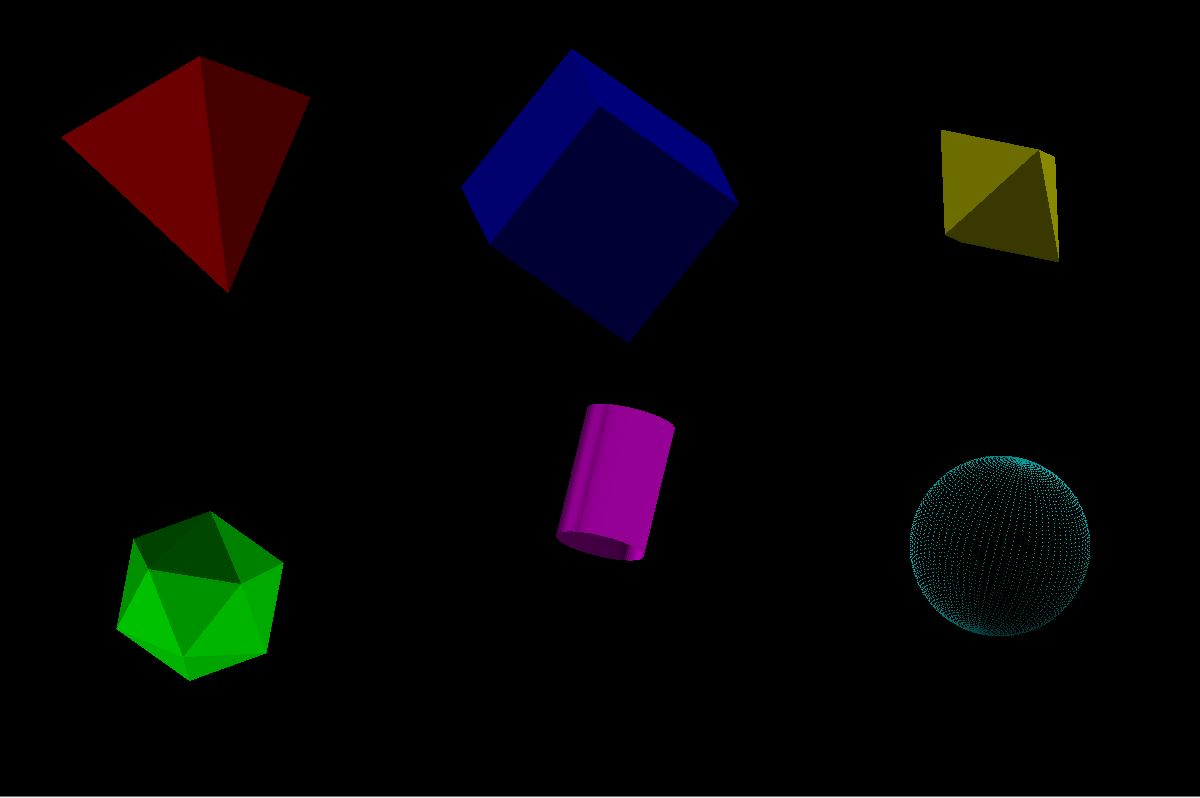
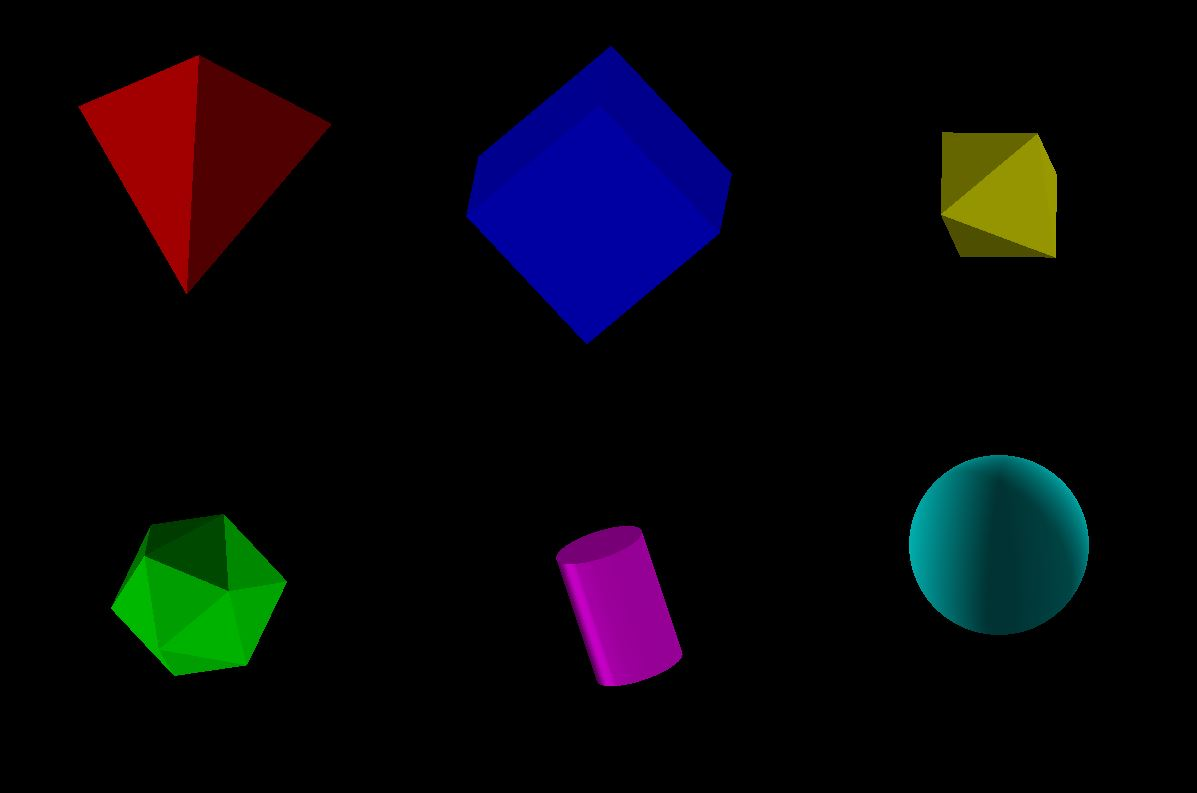
fix bugs on cylinder and sphere

diff --git a/Assignment2/src/objects3D/Sphere.java b/Assignment2/src/objects3D/Sphere.java
@@ -22,29 +22,50 @@ public class Sphere {
 		//the step of phi
 		float incphi=(pi/nSegments);
 
-		//Begin to draw
-		GL11.glBegin(GL11.GL_POINTS);
+		GL11.glBegin(GL11.GL_QUADS);
 		{
-			//this time we draw many points on the surface of a sphere to construct a sphere
-			for (float theta = -pi; theta<pi;theta=theta+inctheta ){
+			for(float theta = -pi; theta<pi;theta=theta+inctheta){
 				for(float phi = -(pi/2);phi<pi/2;phi=phi+incphi){
-					//x=r*cos(phi)*cos(theta)
-					float x= (float) (radius*Math.cos(phi)*Math.cos(theta));
-					//y=r*cos(phi)*sin(theta)
-					float y=(float) (radius*Math.cos(phi)*Math.sin(theta));
-					//z=r*sin(phi)
-					float z= (float) (radius*Math.sin(phi));
+					/*
+					* Basic Idea:
+					* 	x=r*cos(phi)*cod(theta)
+					* 	y=r*cos(phi)*sin(theta)
+					* 	z=r*sin(phi)
+					* */
 
-					//determine the shade of each point
+					//Draw the first point
+					float x= (float) (radius*Math.cos(phi)*Math.cos(theta));
+					float y=(float) (radius*Math.cos(phi)*Math.sin(theta));
+					float z= (float) (radius*Math.sin(phi));
 					GL11.glNormal3f(x,y,z);
-					//draw the point
 					GL11.glVertex3f(x,y,z);
+
+					//Draw the second point
+					float x_step_phi=(float) (radius*Math.cos(phi+incphi)*Math.cos(theta));
+					float y_step_phi=(float) (radius*Math.cos(phi+incphi)*Math.sin(theta));
+					float z_step_phi=(float) (radius*Math.sin(phi+incphi));
+					GL11.glNormal3f(x_step_phi,y_step_phi,z_step_phi);
+					GL11.glVertex3f(x_step_phi,y_step_phi,z_step_phi);
+
+					//Draw the third point
+					float x_step_theta_phi=(float) (radius*Math.cos(phi+incphi)*Math.cos(theta+inctheta));
+					float y_step_theta_phi=(float) (radius*Math.cos(phi+incphi)*Math.sin(theta+inctheta));
+					float z_step_theta_phi=(float) (radius*Math.sin(phi+incphi));
+					GL11.glNormal3f(x_step_theta_phi,y_step_theta_phi,z_step_theta_phi);
+					GL11.glVertex3f(x_step_theta_phi,y_step_theta_phi,z_step_theta_phi);
+
+					//Draw the forth point
+					float x_step_theta=(float) (radius*Math.cos(phi)*Math.cos(theta+inctheta));
+					float y_step_theta=(float) (radius*Math.cos(phi)*Math.sin(theta+inctheta));
+					float z_step_theta=(float) (radius*Math.sin(phi));
+					GL11.glNormal3f(x_step_theta,y_step_theta,z_step_theta);
+					GL11.glVertex3f(x_step_theta,y_step_theta,z_step_theta);
 				}
 			}
-		}
-		//End to draw
-		GL11.glEnd();
 
+		}
+		//Finish Drawing
+		GL11.glEnd();
 
 	}
 

diff --git a/Assignment2/src/objects3D/Cylinder.java b/Assignment2/src/objects3D/Cylinder.java
@@ -43,6 +43,20 @@ public class Cylinder {
 					new Point4f(x2,y2,height,0.0f),
 			});
 
+			//draw one triangle for the top of cylinder
+			drawTriangle(new Point4f[]{
+					new Point4f(x1,y1,0.0f,0.0f),
+					new Point4f(x2,y2,0.0f,0.0f),
+					new Point4f(0.0f,0.0f,0.0f,0.0f)
+			});
+
+			//draw one triangle for the bottom of cylinder
+			drawTriangle(new Point4f[]{
+					new Point4f(x1,y1,height,0.0f),
+					new Point4f(x2,y2,height,0.0f),
+					new Point4f(0.0f,0.0f,height,0.0f)
+			});
+
 
 
 		}
